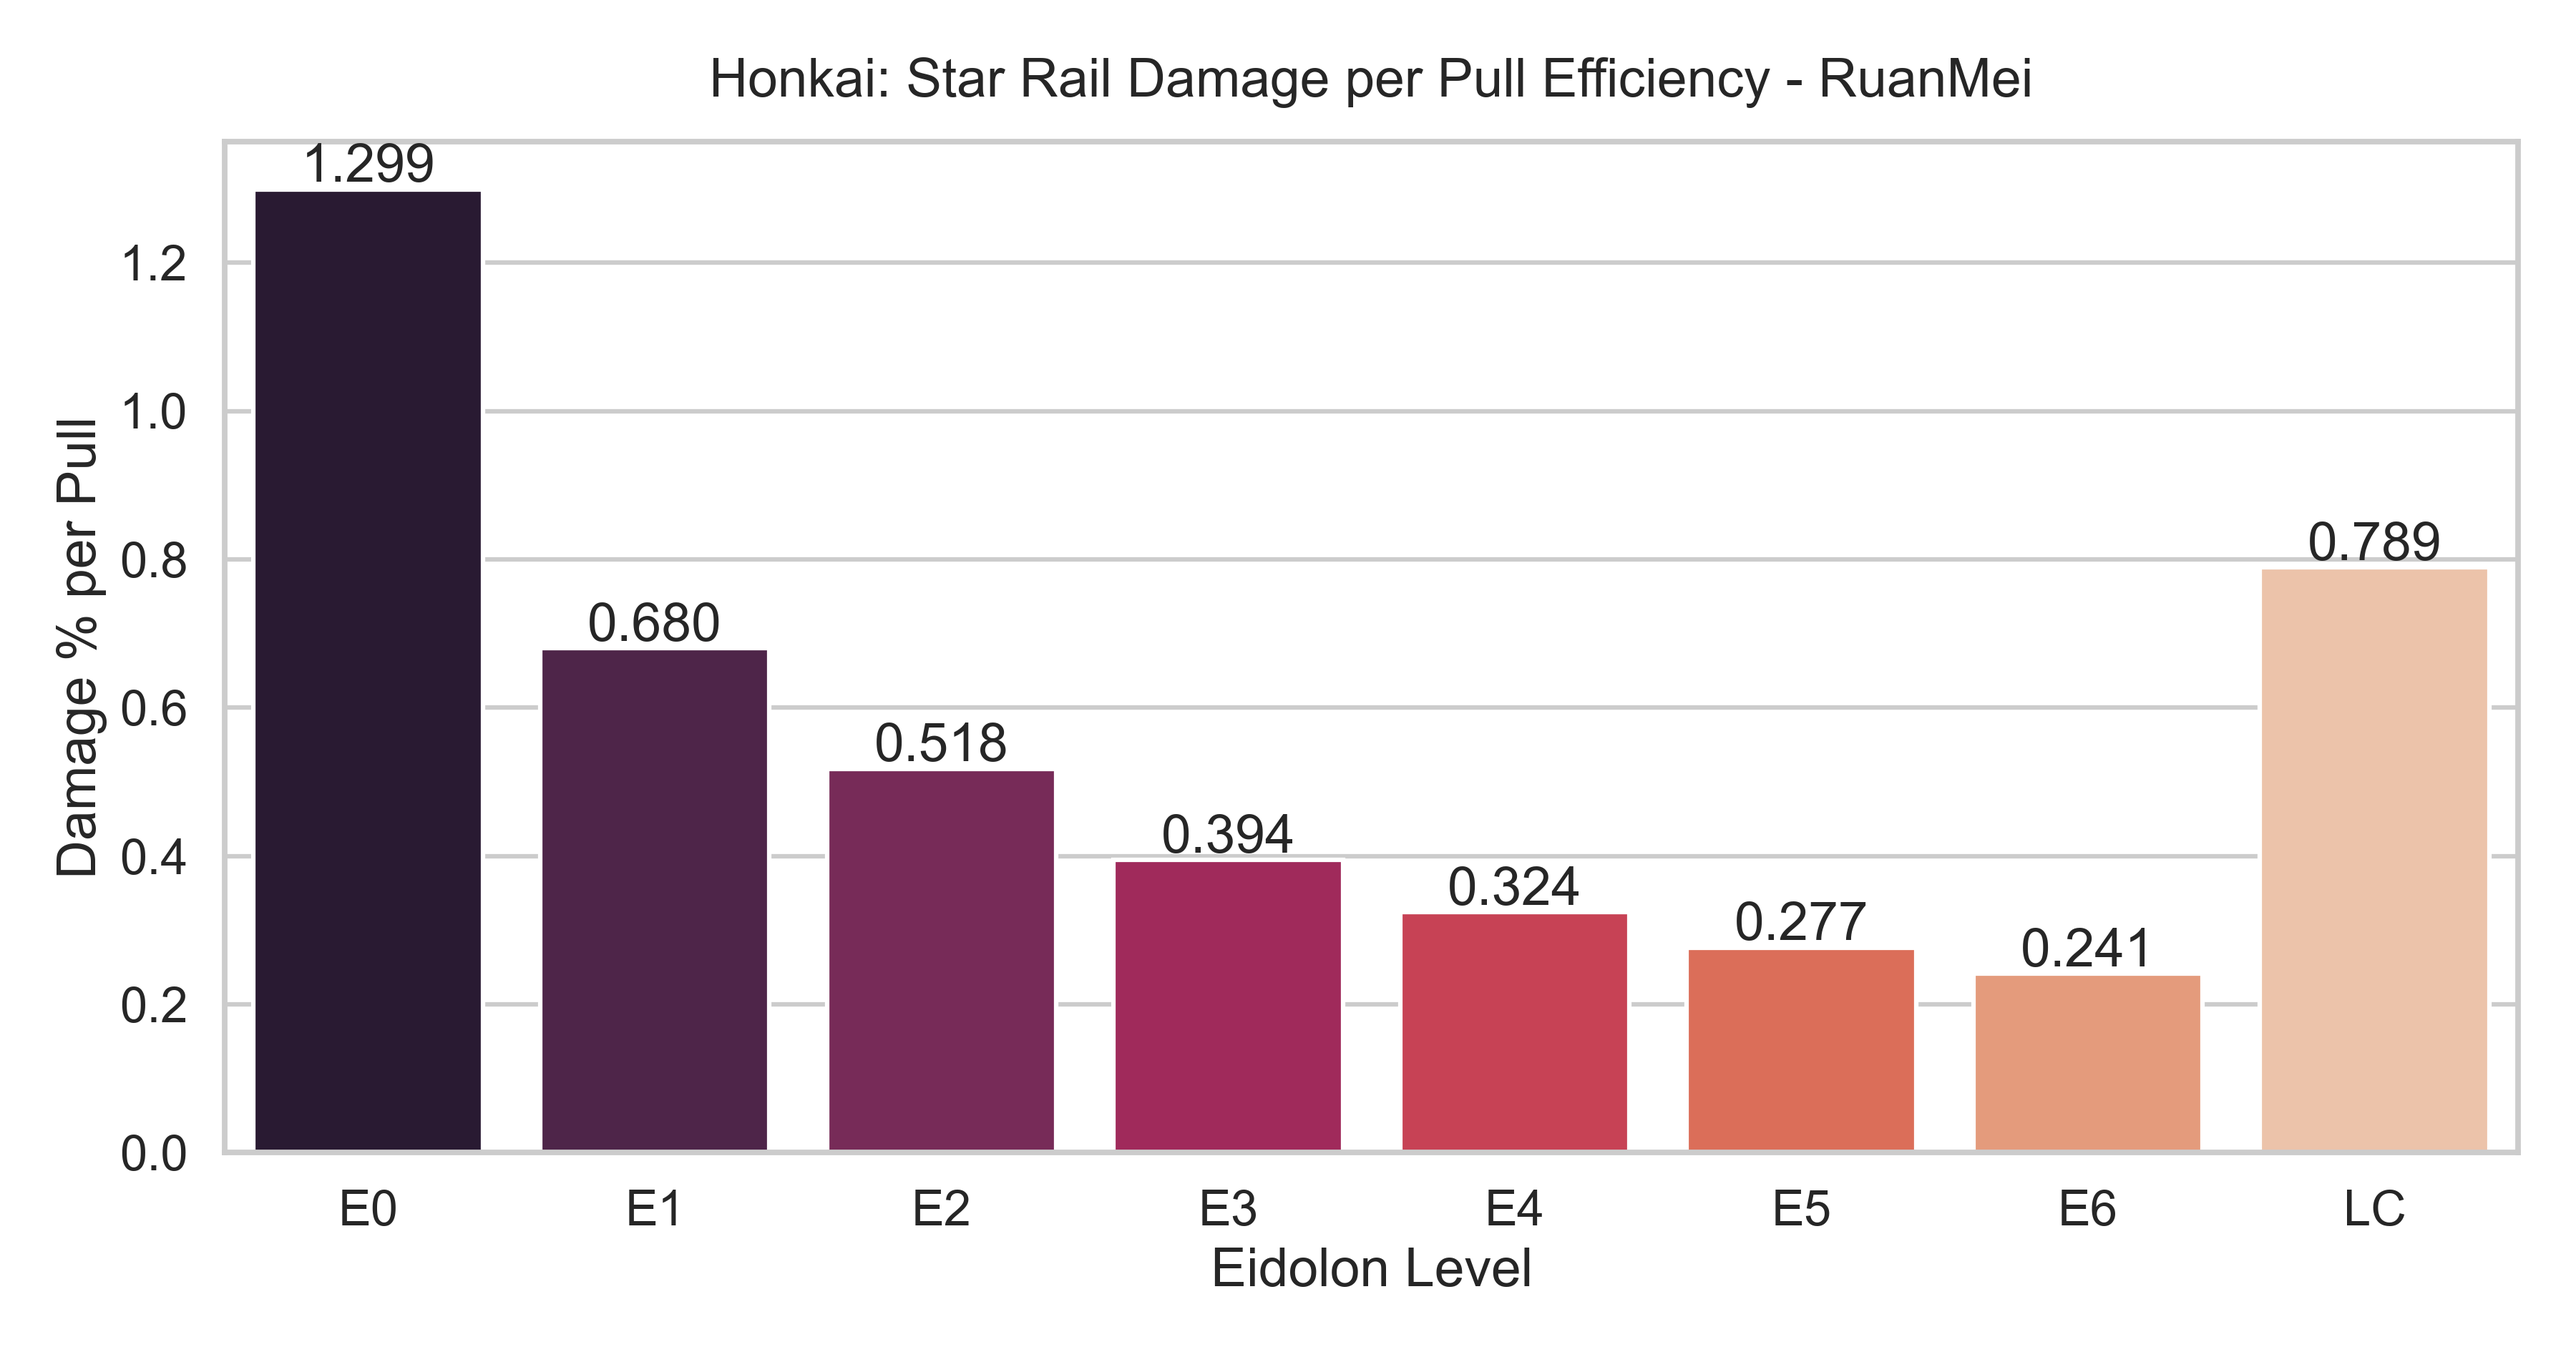
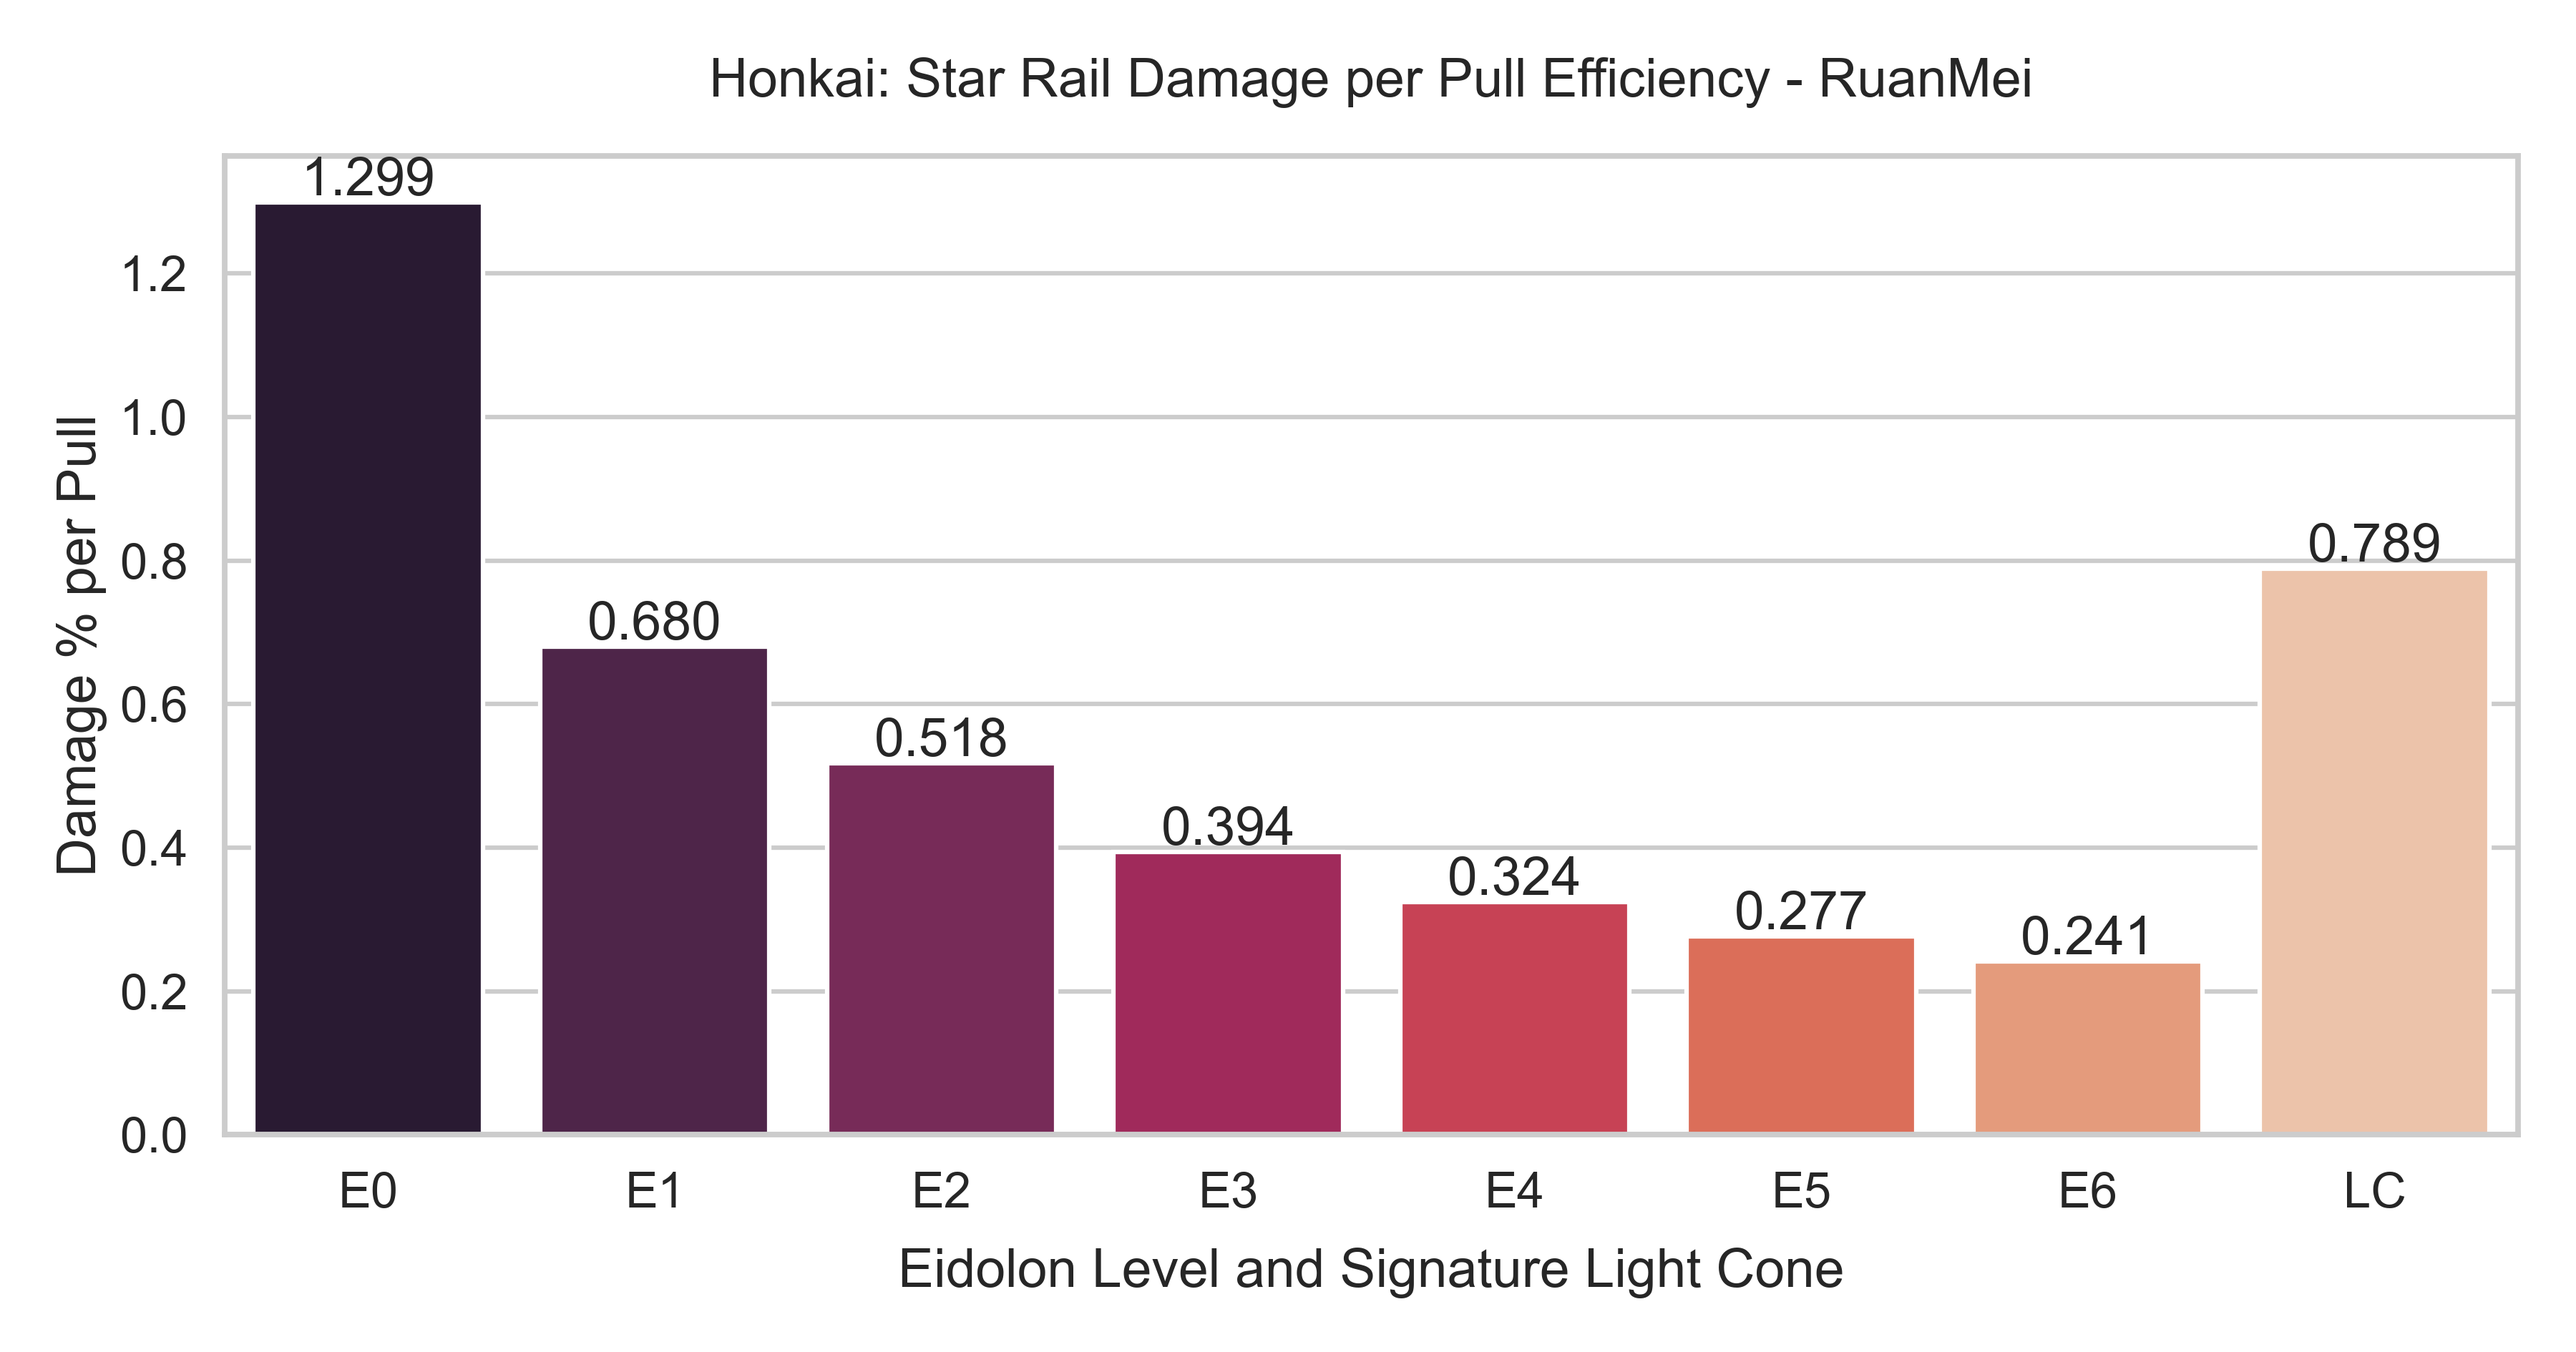
Update plots for RuanMei class: enhance titles and labels to include Signature Light Cone, improving clarity in damage analysis visualizations.

diff --git a/calculator/plot_eidolon_value.py b/calculator/plot_eidolon_value.py
@@ -1,5 +1,6 @@
 from os import path
 import matplotlib.pyplot as plt
+from numpy import pad
 import seaborn as sns
 import pandas as pd
 from pathlib import Path
@@ -151,8 +152,8 @@ def _create_barplot(
         x=x_key, y=y_key, hue=x_key, data=data, palette=palette, legend=False, ax=ax
     )
 
-    ax.set_title(f"{title}{title_suffix}", pad=15)
-    ax.set_xlabel(xlabel)
+    ax.set_title(f"{title}{title_suffix}", pad=20)
+    ax.set_xlabel(xlabel, labelpad=10)
     ax.set_ylabel(ylabel)
 
     # Add value labels to bars
@@ -200,8 +201,8 @@ def plot_eidolon_value(avg_dmg, dmg_per_pull, marginal_value, character_name=Non
         data=avg_dmg_df,
         x_key="Eidolon",
         y_key="Damage",
-        title="Honkai: Star Rail Average Damage Percentage by Eidolon",
-        xlabel="Eidolon Level",
+        title="Honkai: Star Rail Average Damage Percentage by Eidolon and Signature Light Cone",
+        xlabel="Eidolon Level and Signature Light Cone",
         ylabel="Damage Percentage (%)",
         palette="viridis",
         label_format="{:.1f}%",
@@ -224,7 +225,7 @@ def plot_eidolon_value(avg_dmg, dmg_per_pull, marginal_value, character_name=Non
         x_key="Eidolon",
         y_key="Damage per Pull",
         title="Honkai: Star Rail Damage per Pull Efficiency",
-        xlabel="Eidolon Level",
+        xlabel="Eidolon Level and Signature Light Cone",
         ylabel="Damage % per Pull",
         palette="rocket",
         label_format="{:.3f}",
@@ -246,8 +247,8 @@ def plot_eidolon_value(avg_dmg, dmg_per_pull, marginal_value, character_name=Non
         data=marginal_df,
         x_key="Transition",
         y_key="Marginal Value",
-        title="Honkai: Star Rail Marginal Value of Each Eidolon Upgrade",
-        xlabel="Eidolon Transition",
+        title="Honkai: Star Rail Marginal Value of Each Eidolon and Signature Light Cone Upgrade",
+        xlabel="Eidolon and Signature Light Cone Transition",
         ylabel="Damage % per Additional Pull",
         palette="mako",
         label_format="{:.3f}",
